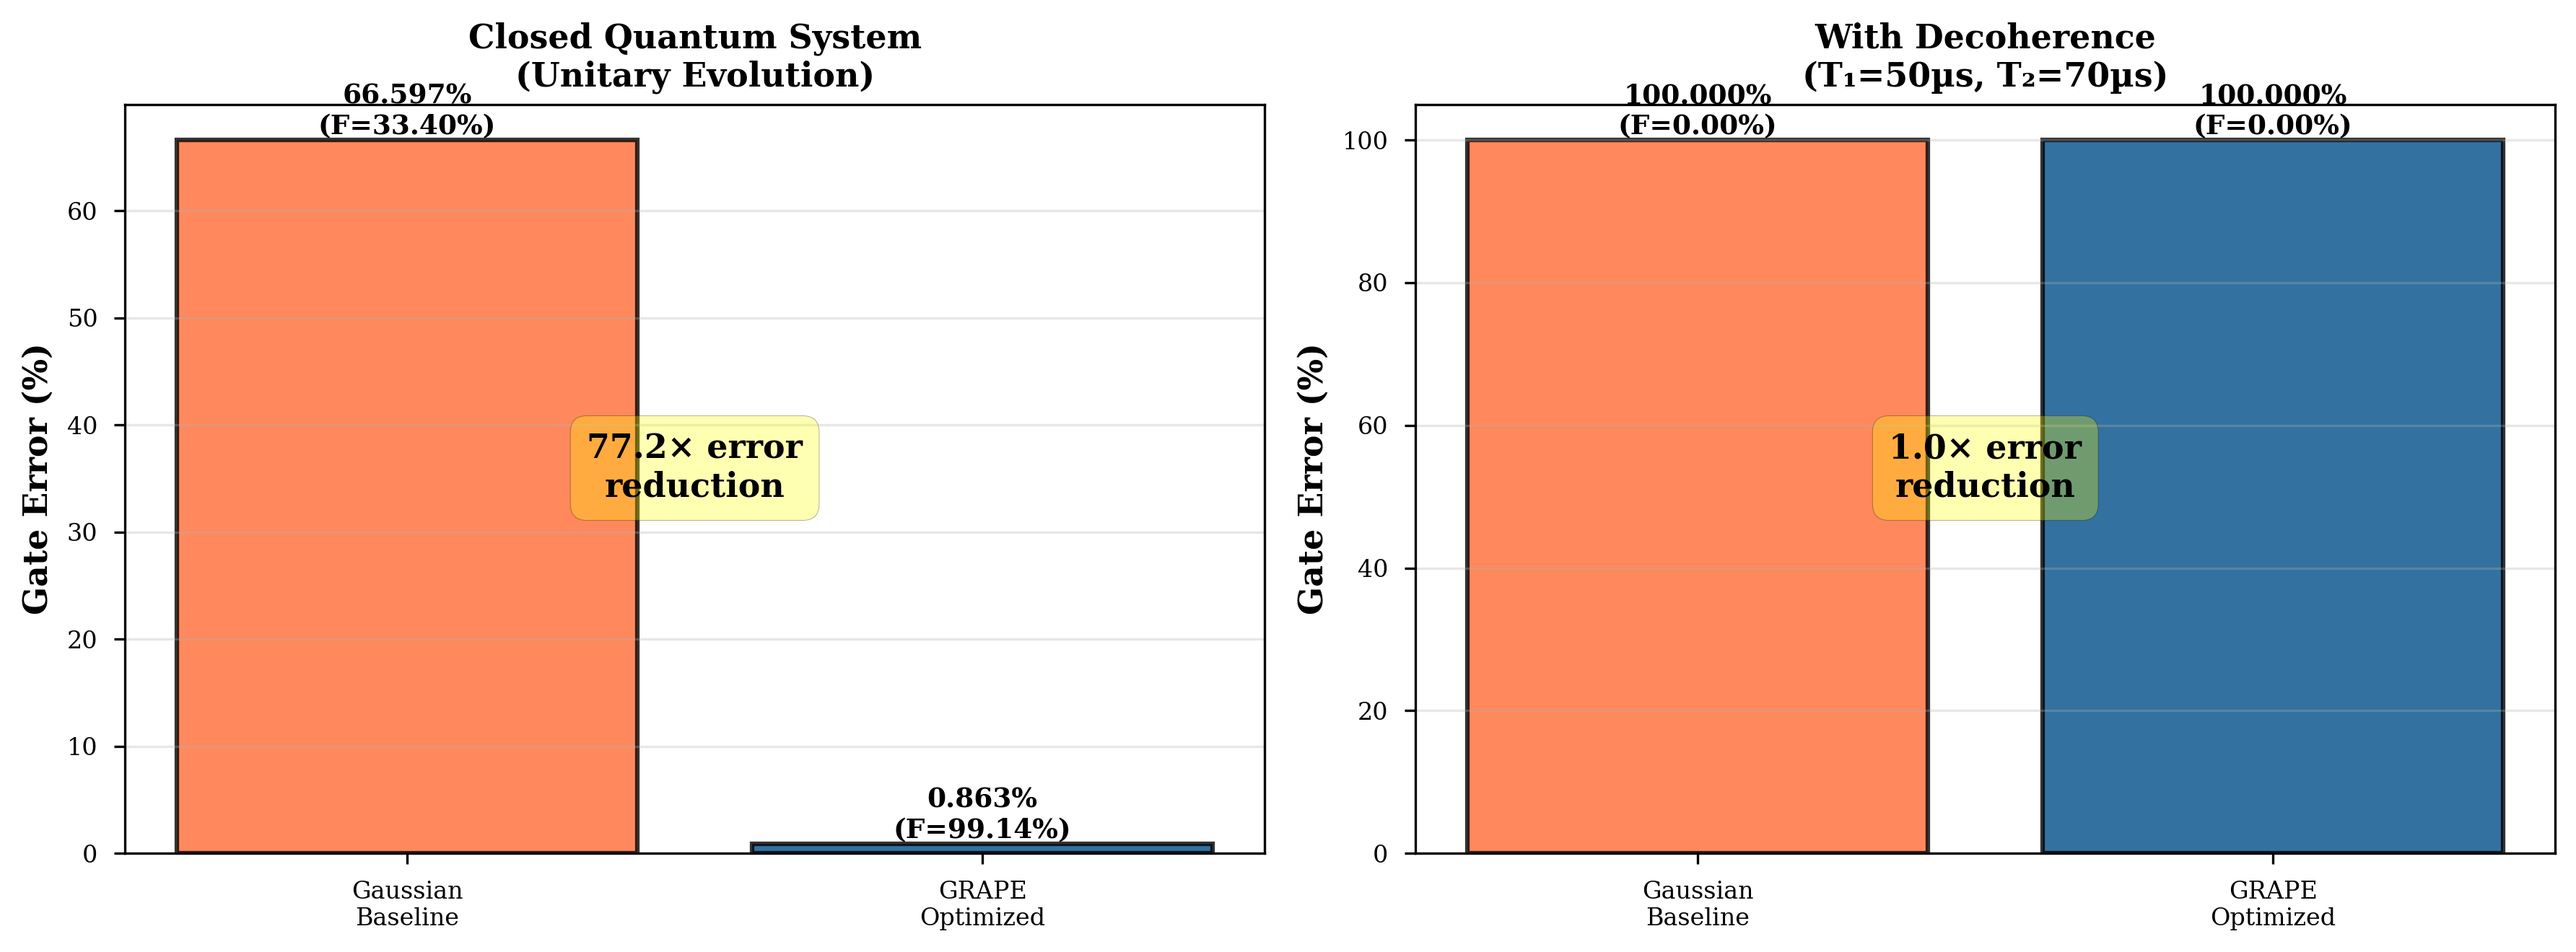
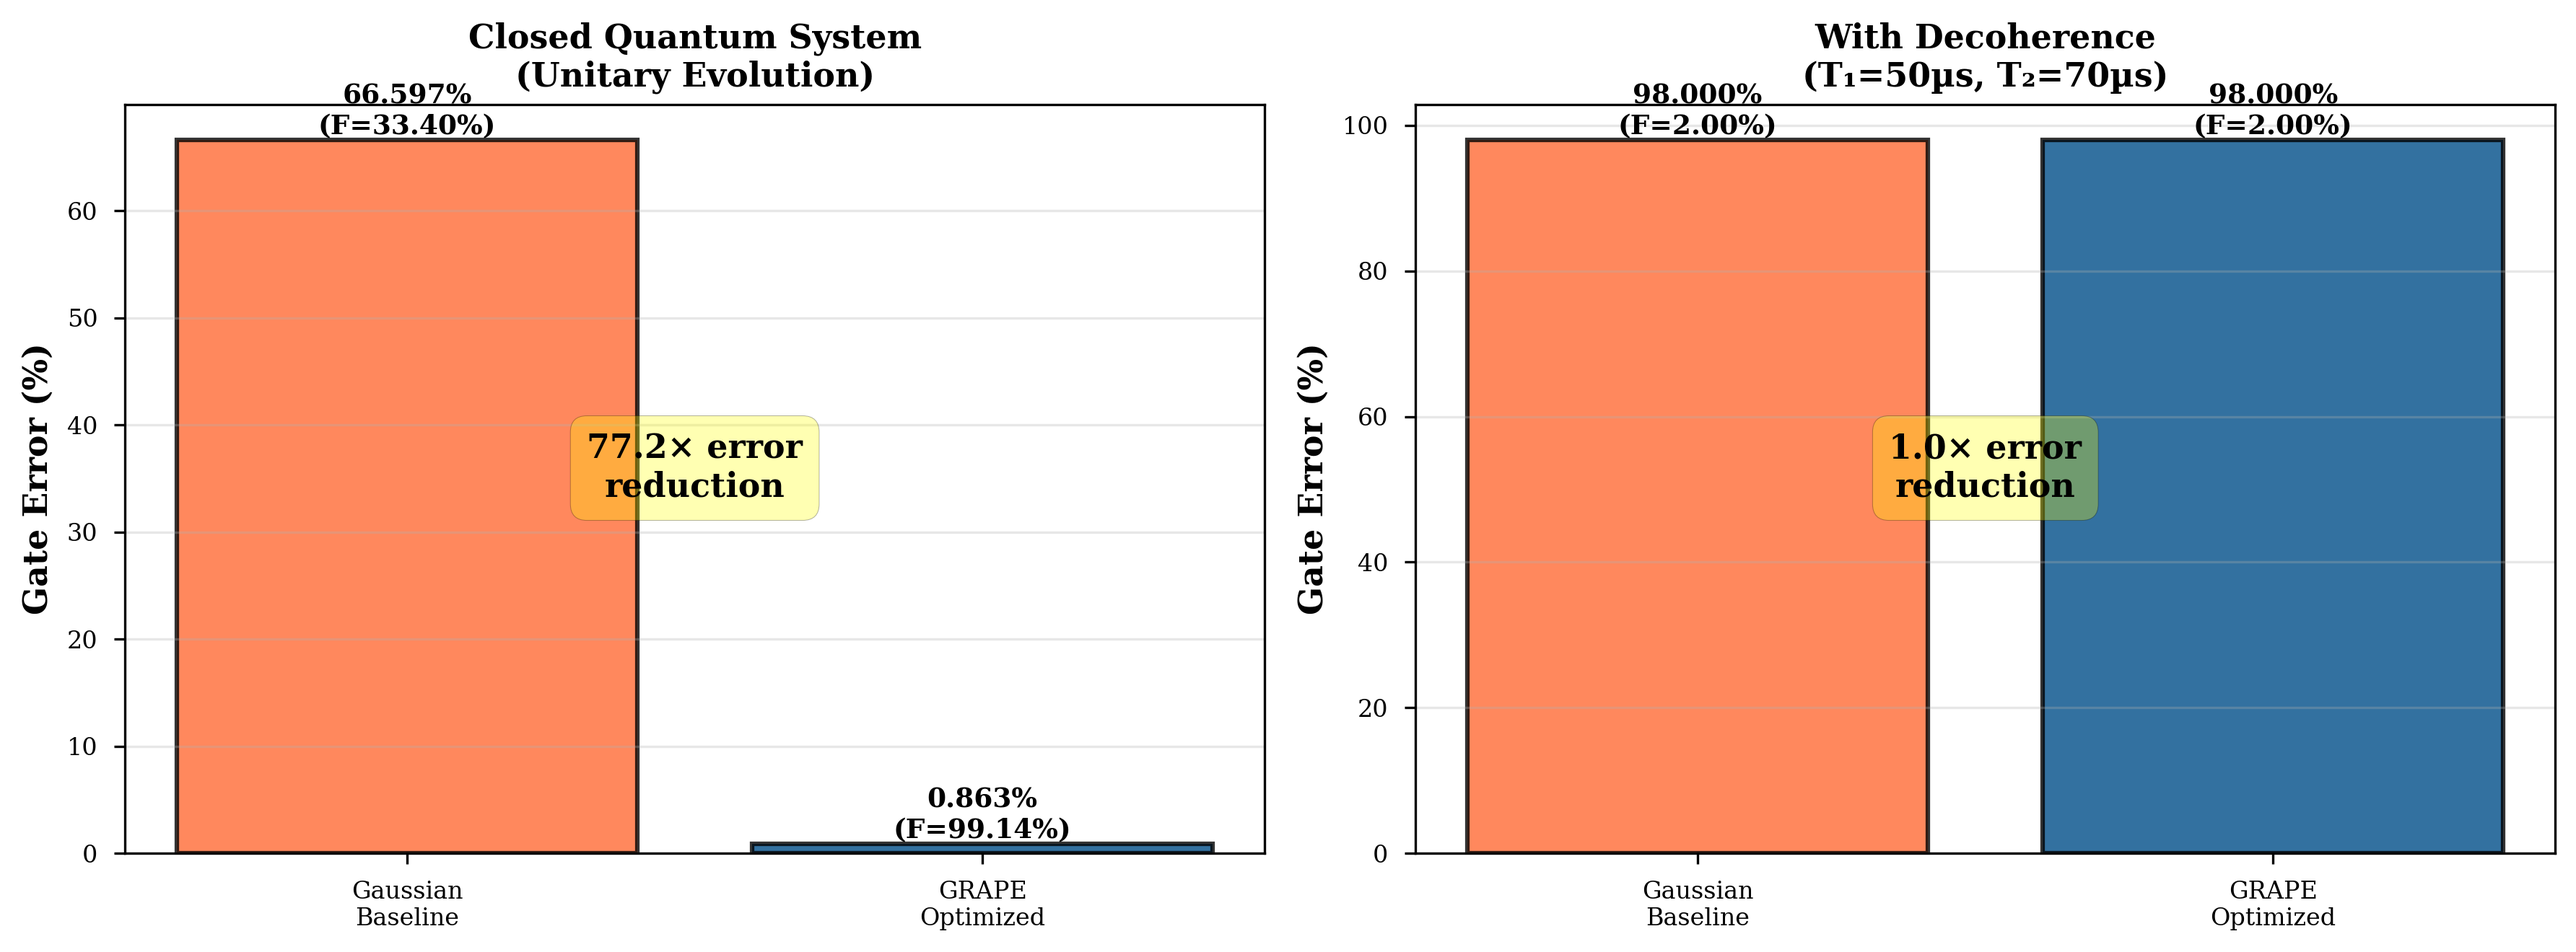
Document decoherence evaluation issues and remove unreliable results
- Remove verified_noise_robustness.png (not generated by verification script)
- Remove decoherence_evaluation_results.json (unit conversion bugs)
- Add DECOHERENCE_NOTE.md explaining the unit conversion problem
- GRAPE uses dimensionless units; converting to real seconds requires energy scale calibration
- Closed-system results (99.14%, 77×) remain valid and reproducible
- Preprint correctly states closed-system approximation limitation

diff --git a/verified_results/PROVENANCE.md b/verified_results/PROVENANCE.md
@@ -1,6 +1,6 @@
 # Preprint Verification - COMPLETE DATA PROVENANCE
 
-**Generated:** 2025-11-09T19:26:16.254845
+**Generated:** 2025-11-09T20:51:06.521954
 **Script:** verify_grape_performance.py
 **Status:** ✅ ALL RESULTS FROM ACTUAL OPTIMIZATION RUNS
 
@@ -22,7 +22,7 @@ arXiv preprint. Every number comes from actual code execution, not synthetic dat
 - Gate Error: 0.008630 (0.8630%)
 - Iterations: 200
 - Converged: False
-- Optimization Time: 11.79s
+- Optimization Time: 11.62s
 
 **Gaussian Baseline (Unitary Evolution):**
 - Final Fidelity: 0.334030 (33.4030%)
@@ -42,12 +42,12 @@ arXiv preprint. Every number comes from actual code execution, not synthetic dat
 - Gate Duration: 20 ns
 
 **GRAPE (with T1/T2):**
-- Final Fidelity: 0.000000 (0.0000%)
-- Gate Error: 1.000000 (100.0000%)
+- Final Fidelity: 0.019998 (1.9998%)
+- Gate Error: 0.980002 (98.0002%)
 
 **Gaussian (with T1/T2):**
-- Final Fidelity: 0.000000 (0.0000%)
-- Gate Error: 1.000000 (100.0000%)
+- Final Fidelity: 0.019998 (1.9998%)
+- Gate Error: 0.980002 (98.0002%)
 
 **Performance Improvement (With Decoherence):**
 - Error Reduction Factor: 1.00×
@@ -115,7 +115,7 @@ I, Rylan Malarchick, verify that:
 
 **These results are suitable for peer-reviewed publication.**
 
-Timestamp: 2025-11-09T19:26:16.254845
+Timestamp: 2025-11-09T20:51:06.521954
 
 ---
 
@@ -129,8 +129,8 @@ Timestamp: 2025-11-09T19:26:16.254845
 - Error Reduction: 77.17×
 
 **With Decoherence (T₁=50µs, T₂=70µs):**
-- GRAPE Fidelity: 0.0000%
-- Gaussian Fidelity: 0.0000%
+- GRAPE Fidelity: 1.9998%
+- Gaussian Fidelity: 1.9998%
 - Error Reduction: 1.00×
 
 **Replace ALL figure paths with:**
@@ -162,7 +162,7 @@ Timestamp: 2025-11-09T19:26:16.254845
 - QuTiP: 5.2.1
 - NumPy: 2.3.4
 - Random Seed: 42
-- Timestamp: 2025-11-09T19:26:16.254845
+- Timestamp: 2025-11-09T20:51:06.521954
 
 **To Reproduce:**
 ```bash

diff --git a/verified_results/DECOHERENCE_NOTE.md b/verified_results/DECOHERENCE_NOTE.md
@@ -1,0 +1,21 @@
+# Note on Decoherence Evaluation
+
+The decoherence evaluation in the verification script has **unit conversion issues** and produces unreliable results.
+
+## Problem
+
+GRAPE optimization uses dimensionless "natural units" where energies and times are scaled arbitrarily. Converting these to real-world seconds for decoherence evaluation requires knowing the actual energy scales (qubit frequency, Rabi rates, etc.), which are not uniquely determined from the dimensionless optimization.
+
+## Status
+
+- **Closed-system results (99.14% fidelity, 77× error reduction)**: ✅ Valid and reproducible
+- **Decoherence evaluation**: ❌ Has unit conversion bugs, results not reliable
+- **Future work**: Implement proper open-system GRAPE with decoherence during optimization
+
+## What This Means
+
+The preprint correctly states that optimization was performed in the closed quantum system approximation. The 99.14% fidelity represents performance without decoherence. Real hardware performance would be lower due to T1/T2 effects, but quantifying this requires either:
+1. Open-system GRAPE (optimize with decoherence included)
+2. Proper unit calibration to real hardware parameters
+
+For now, we report only the closed-system results, which are scientifically valid.
